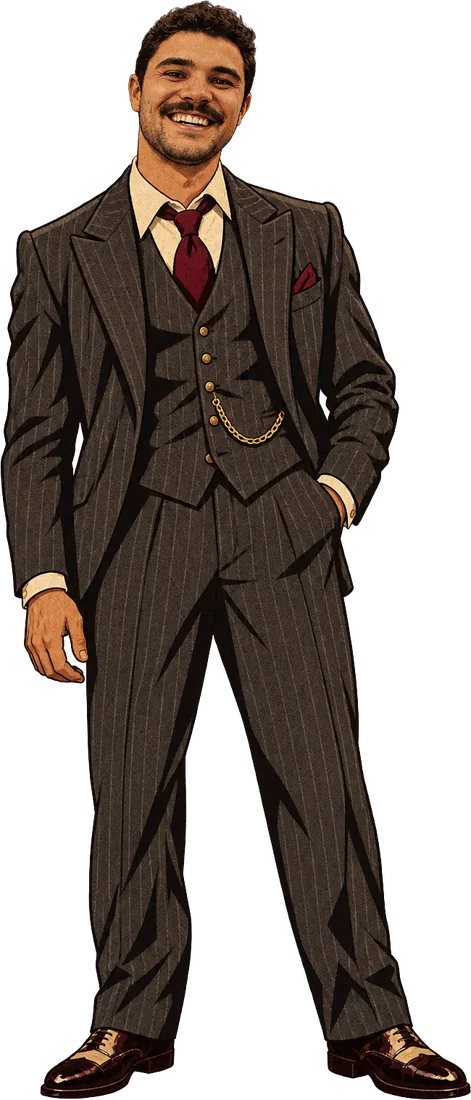
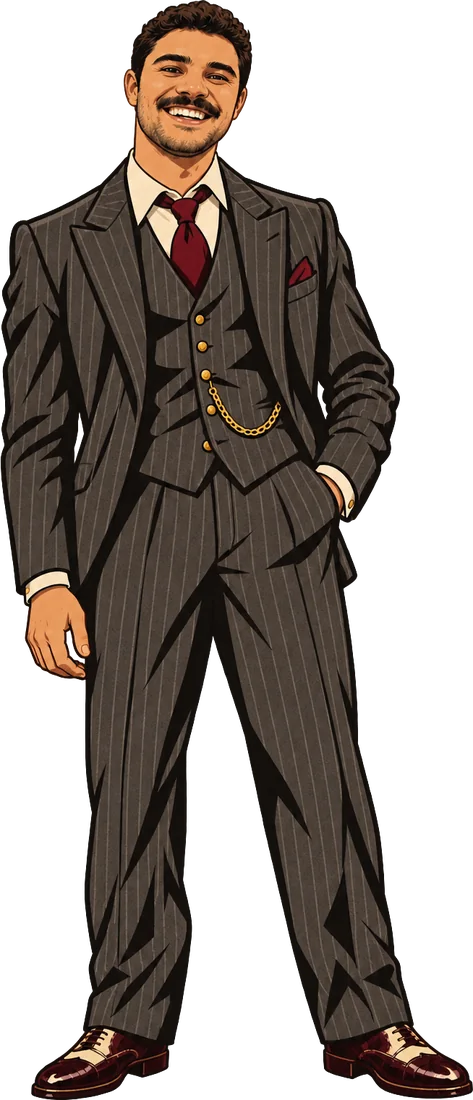
Guests type their own nickname and last name; Daya joins the cast
Sign-up: after tapping their face, each guest gives their last name and,
optionally, their 1920s nickname (Heston: "the players can fill that in when
they register"); they go by "Josh “Two-Tone” Lee" and the roll call says
"Josh Lee, a.k.a. Two-Tone". Holden restyled to match the others; Daya added.

Claude-Session: https://claude.ai/code/session_011n5gPsd4ZZgTYeVzG34PYX

Changed region(s): [[0.0, 0.0, 1.0, 1.0]]

diff --git a/convex/registration.ts b/convex/registration.ts
@@ -35,6 +35,8 @@ const profileArgs = {
   rumor: v.optional(v.string()),
   sayAs: v.optional(v.string()),
   figure: v.optional(v.string()), // the drawing they picked as their avatar
+  nickname: v.optional(v.string()), // party cast: their 1920s nickname ("Two-Tone"), optional
+  lastName: v.optional(v.string()), // party cast: their last name, optional
 };
 
 type ProfileInput = {
@@ -49,12 +51,18 @@ type ProfileInput = {
   rumor?: string;
   sayAs?: string;
   figure?: string;
+  nickname?: string;
+  lastName?: string;
 };
 
-/** A cast member's drawing comes with their name (and how to say it), whatever the page sent. */
+/** A cast member's drawing comes with their first name (and how to say it), whatever the page sent; their
+ *  nickname and last name are their own (Heston, Oct 16). */
 function castProfile<T extends ProfileInput>(input: T, figure: string | undefined): T {
   const m = castMember(figure);
-  return m ? { ...input, charName: castName(m), realName: castRealName(m), sayAs: m.sayAs ?? "" } : input;
+  if (!m) return input;
+  const bare = (x: string) => x.replace(/[“”"]/g, "").trim();
+  const own = { nickname: bare(clean(input.nickname, LIMITS.nickname)), lastName: bare(clean(input.lastName, LIMITS.lastName)) };
+  return { ...input, ...own, charName: castName(m, own), realName: castRealName(m, own), sayAs: m.sayAs ?? "" };
 }
 
 function validateProfile(game: Doc<"games">, input: ProfileInput) {
@@ -67,6 +75,8 @@ function validateProfile(game: Doc<"games">, input: ProfileInput) {
     secret: clean(input.secret, LIMITS.secret),
     rumor: clean(input.rumor, LIMITS.rumor),
     sayAs: clean(input.sayAs, LIMITS.sayAs),
+    nickname: clean(input.nickname, LIMITS.nickname),
+    lastName: clean(input.lastName, LIMITS.lastName),
     // When the game menu turns the opt-in off, everyone is eligible.
     killerOk: game.killerOptIn ? input.killerOk : true,
   };
@@ -213,6 +223,8 @@ export const register = mutation({
       secret: p.secret || undefined,
       rumor: p.rumor || undefined,
       sayAs: p.sayAs || undefined,
+      nickname: p.nickname || undefined,
+      lastName: p.lastName || undefined,
       figure,
       killerOk: p.killerOk,
       checkedIn: false,
@@ -264,6 +276,8 @@ export const me = query({
       secret: player.secret ?? "",
       rumor: player.rumor ?? "",
       sayAs: player.sayAs ?? "",
+      nickname: player.nickname ?? "",
+      lastName: player.lastName ?? "",
       figure: player.figure ?? null,
       killerOk: player.killerOk,
       // The pool key ("" for a guest who typed their own weapon before the pool, so they pick again).
@@ -287,7 +301,11 @@ export const update = mutation({
       throw new ConvexError("Registration is closed, so changes are locked.");
     }
 
-    const p = validateProfile(game, castProfile(args, args.figure ?? player.figure));
+    // Older pages don't send the nickname or last name: keep what's there.
+    const p = validateProfile(
+      game,
+      castProfile({ ...args, nickname: args.nickname ?? player.nickname, lastName: args.lastName ?? player.lastName }, args.figure ?? player.figure),
+    );
     // A different drawing has to be free; the same one stays theirs. Checked before the name (see register).
     const figure = args.figure && args.figure !== player.figure ? await checkFigure(ctx, game, args.figure, player._id) : undefined;
     await assertNameFree(ctx, game._id, p.charName, player._id);
@@ -319,6 +337,8 @@ export const update = mutation({
       // Older pages don't send these: leave what's there.
       ...(args.rumor !== undefined ? { rumor: p.rumor || undefined } : {}),
       ...(args.sayAs !== undefined || !!castMember(args.figure ?? player.figure) ? { sayAs: p.sayAs || undefined } : {}),
+      nickname: p.nickname || undefined,
+      lastName: p.lastName || undefined,
       ...(figure ? { figure } : {}),
       killerOk: p.killerOk,
       updatedAt: Date.now(),

diff --git a/src/components/ProfileForm.tsx b/src/components/ProfileForm.tsx
@@ -31,6 +31,9 @@ export type ProfileValues = {
   sayAs: string;
   /** The drawing they picked as their avatar. */
   figure: string;
+  /** Party cast: their 1920s nickname and last name, typed here. */
+  nickname: string;
+  lastName: string;
 };
 
 export const EMPTY_PROFILE: ProfileValues = {
@@ -45,6 +48,8 @@ export const EMPTY_PROFILE: ProfileValues = {
   rumor: "",
   sayAs: "",
   figure: "",
+  nickname: "",
+  lastName: "",
 };
 
 const MAX: Record<keyof Omit<ProfileValues, "killerOk" | "figure" | "weapon">, number> = {
@@ -56,6 +61,8 @@ const MAX: Record<keyof Omit<ProfileValues, "killerOk" | "figure" | "weapon">, n
   secret: 280,
   rumor: 140,
   sayAs: 80,
+  nickname: 24,
+  lastName: 30,
 };
 
 type StepId = "door" | "you" | "character" | "motive" | "weapon" | "review";
@@ -96,9 +103,12 @@ export default function ProfileForm(props: {
   const allFigures = gallery?.flatMap((g) => g.figures) ?? [];
   const castPick = allFigures.find((f) => f.key === values.figure) ?? null;
   function pickFigure(f: { key: string; name: string; castName: string }) {
-    setValues((v) => ({ ...v, figure: f.key, charName: f.castName, realName: f.name, sayAs: "" }));
+    setValues((v) => ({ ...v, figure: f.key, realName: f.name, sayAs: "" }));
     setNeedFigure(false);
   }
+  // "Josh “Two-Tone” Lee": their first name from the cast, the rest as they type it (the server makes it final).
+  const tidy = (s: string) => s.replace(/[“”"]/g, "").replace(/\s+/g, " ").trim();
+  const fullName = castPick ? [castPick.name, tidy(values.nickname) ? `“${tidy(values.nickname)}”` : "", tidy(values.lastName)].filter(Boolean).join(" ") : "";
   const topRef = useRef<HTMLDivElement>(null);
 
   const generateUploadUrl = useMutation(api.registration.generateUploadUrl);
@@ -119,6 +129,8 @@ export default function ProfileForm(props: {
 
   const requiredFor = (s: StepId): TextKey[] => {
     switch (s) {
+      case "you":
+        return castPick ? ["lastName"] : [];
       case "character":
         return ["who", "signature"];
       case "motive":
@@ -305,13 +317,23 @@ export default function ProfileForm(props: {
               <div className="figure-chosen">
                 <img src={figureUrl(castPick.key)} alt="" />
                 <span className="help">
-                  <strong className="figure-chosen-name">{castPick.castName}</strong>
+                  <strong className="figure-chosen-name">{fullName}</strong>
                   That's you. Not you? Tap your own face.
                 </span>
               </div>
             )}
             {needFigure && <span className="err">Tap your face to continue.</span>}
           </div>
+          {castPick && (
+            <>
+              {field("lastName", "Your last name", { ph: "e.g. Hill" })}
+              {field("nickname", "Your 1920s nickname · optional", {
+                ph: "e.g. Two-Tone, The Knife, Lucky",
+                help: "The narrator calls you by it at the roll call: “Josh Lee, a.k.a. Two-Tone.”",
+                publicHelp: true,
+              })}
+            </>
+          )}
           {nav("Next: your character")}
         </>
       );
@@ -320,7 +342,7 @@ export default function ProfileForm(props: {
       body = (
         <>
           {progress}
-          <h2>{castPick ? `You're ${castPick.castName}` : "Who are you tonight?"}</h2>
+          <h2>{castPick ? `You're ${fullName}` : "Who are you tonight?"}</h2>
           <p className="lede">A little about your 1929 self. Random and funny is welcome.</p>
           {field("who", "Who you are tonight, in a line or two", {
             area: true,

diff --git a/convex/figures.ts b/convex/figures.ts
@@ -26,13 +26,22 @@ export const CAST: CastMember[] = [
   { key: "brian", name: "Brian", sex: "m" },
   { key: "brianna", name: "Brianna", sex: "f" },
   { key: "sienna", name: "Sienna", sex: "f" },
+  { key: "daya", name: "Daya", sex: "f" },
 ];
 export const CAST_KEYS = CAST.map((l) => l.key);
 export const castMember = (key: string | null | undefined) => (key ? CAST.find((l) => l.key === key) ?? null : null);
-/** What a cast member goes by: first name, “nickname”, last name ("Josh “Two-Tone” Lee"), with whatever's in so far. */
-export const castName = (m: CastMember) => [m.name, m.nickname ? `“${m.nickname}”` : "", m.last ?? ""].filter(Boolean).join(" ");
+/** The nickname and last name each guest types at sign-up (Heston, Oct 16: "the players can fill that in when they
+ *  register"); the cast list itself leaves them empty. */
+export type Own = { nickname?: string | null; lastName?: string | null };
+const tidy = (s: string | null | undefined) => (s ?? "").replace(/[“”"]/g, "").replace(/\s+/g, " ").trim();
+/** What a cast member goes by: first name, “nickname”, last name ("Josh “Two-Tone” Lee"), with whatever's in. */
+export const castName = (m: CastMember, own: Own = {}) => {
+  const nick = tidy(own.nickname ?? m.nickname);
+  return [m.name, nick ? `“${nick}”` : "", tidy(own.lastName ?? m.last)].filter(Boolean).join(" ");
+};
 /** Their own name without the nickname ("Josh Lee"), for "a.k.a." lines. */
-export const castRealName = (m: CastMember) => [m.name, m.last ?? ""].filter(Boolean).join(" ");
+export const castRealName = (m: CastMember, own: Own = {}) => [m.name, tidy(own.lastName ?? m.last)].filter(Boolean).join(" ");
+export const castNickname = (m: CastMember, own: Own = {}) => tidy(own.nickname ?? m.nickname);
 
 /** Every drawing a game can hand out (for preloading art). */
 export const ALL_FIGURE_KEYS = CAST_KEYS;

diff --git a/src/lib/figure.ts b/src/lib/figure.ts
@@ -9,5 +9,5 @@ export const avatarSrc = (photoUrl?: string | null, figure?: string | null) => p
  * Where each drawing's face sits across its width (0 to 1), for lining the face up with the gap in the
  * jail bars (public/art/jailbars.webp). Measured from the art: the middle of the head in the top 15%.
  */
-export const FACE_X: Record<string, number> = {"bodyguard": 0.455, "brayden": 0.294, "brian": 0.386, "brianna": 0.445, "holden": 0.408, "sienna": 0.323, "chrissie": 0.448, "cigarette": 0.322, "curls": 0.442, "dapper": 0.5, "detective": 0.446, "don": 0.445, "emily": 0.387, "flapper": 0.608, "gambler": 0.403, "heiress": 0.453, "heston": 0.441, "josh": 0.415, "killer": 0.43, "lady": 0.45, "madison": 0.471, "miranda": 0.474, "owner": 0.508, "reily": 0.4, "reporter": 0.364, "sam": 0.422, "singer": 0.326, "sleuth": 0.272, "slick": 0.494, "sophia": 0.46, "sweetheart": 0.406, "trumpet": 0.495};
+export const FACE_X: Record<string, number> = {"bodyguard": 0.455, "brayden": 0.294, "brian": 0.386, "brianna": 0.445, "holden": 0.393, "sienna": 0.323, "chrissie": 0.448, "cigarette": 0.322, "curls": 0.442, "daya": 0.336, "dapper": 0.5, "detective": 0.446, "don": 0.445, "emily": 0.387, "flapper": 0.608, "gambler": 0.403, "heiress": 0.453, "heston": 0.441, "josh": 0.415, "killer": 0.43, "lady": 0.45, "madison": 0.471, "miranda": 0.474, "owner": 0.508, "reily": 0.4, "reporter": 0.364, "sam": 0.422, "singer": 0.326, "sleuth": 0.272, "slick": 0.494, "sophia": 0.46, "sweetheart": 0.406, "trumpet": 0.495};
 export const faceX = (key: string) => FACE_X[key] ?? 0.45;

diff --git a/tests/figures.test.ts b/tests/figures.test.ts
@@ -84,6 +84,21 @@ describe("the party cast: the only characters (Heston, Oct 16: the generic ones 
     expect((await t.query(api.registration.me, { token }))!.charName).toBe(castName(CAST.find((l) => l.key === "sam")!));
   });
 
+  test("each guest types their own nickname and last name; the roll call uses them", async () => {
+    const { t, hostKey } = await setup();
+    const { token } = await t.mutation(api.registration.register, { ...guest(0, "josh"), nickname: " “Two-Tone” ", lastName: "Lee" });
+    let me = (await t.query(api.registration.me, { token }))!;
+    expect(me).toMatchObject({ charName: "Josh “Two-Tone” Lee", realName: "Josh Lee", nickname: "Two-Tone", lastName: "Lee" });
+    // an older page that doesn't send them keeps what's there
+    const { slug: _s, ...edit } = guest(0, "josh");
+    await t.mutation(api.registration.update, { ...edit, token, who: "Changed." });
+    me = (await t.query(api.registration.me, { token }))!;
+    expect(me.charName).toBe("Josh “Two-Tone” Lee");
+    await expect(t.mutation(api.registration.update, { ...edit, token, nickname: "x".repeat(25) })).rejects.toThrow(/24/);
+    const sheet = await t.query(api.voice.rollCallSheet, { slug: SLUG, hostKey });
+    expect(sheet.guests[0].line).toContain("Josh Lee, a.k.a. Two-Tone");
+  });
+
   test("the gallery greys out taken faces, but not your own when you edit; switching frees the old one", async () => {
     const { t } = await setup();
     const { token } = await t.mutation(api.registration.register, guest(0, "heston"));

diff --git a/convex/rollCall.ts b/convex/rollCall.ts
@@ -4,7 +4,7 @@
 import type { Doc, Id } from "./_generated/dataModel";
 import type { QueryCtx } from "./_generated/server";
 import type { CaseFile } from "./engine/types";
-import { castMember, castRealName } from "./figures";
+import { castMember, castNickname, castRealName } from "./figures";
 import { narratorOf, rollWanted, type Wanted } from "./voiceLines";
 import { readSecs, rollSlotMs } from "./show";
 
@@ -33,13 +33,14 @@ export async function rollGuests(ctx: QueryCtx, game: Doc<"games">, _cf: CaseFil
     const w = weapons.find((x) => x.playerId === p._id);
     const weapon = w?.key ? { key: w.key, name: w.name } : null;
     const m = castMember(p.figure);
-    const cast = m ? { real: castRealName(m), nickname: m.nickname ?? null } : null;
+    const own = { nickname: p.nickname, lastName: p.lastName };
+    const cast = m ? { real: castRealName(m, own), nickname: castNickname(m, own) || null } : null;
     const wanted = rollWanted(tone, narratorOf(game), {
       id: p._id,
       charName: p.charName,
       sayAs: p.sayAs,
       realName: p.realName,
-      cast: m ? { real: castRealName(m), nickname: m.nickname, sayAs: m.sayAs } : null,
+      cast: m ? { real: castRealName(m, own), nickname: castNickname(m, own), sayAs: m.sayAs } : null,
       seed: game.slug,
     });
     return { player: p, weapon, cast, wanted };

diff --git a/convex/schema.ts b/convex/schema.ts
@@ -142,6 +142,8 @@ export default defineSchema({
     figure: v.optional(v.string()), // the drawing they picked as their avatar (convex/figures.ts); one per guest per game
     rumor: v.optional(v.string()), // roll call: the word on the street about their character
     sayAs: v.optional(v.string()), // how the narrator should say the character's name
+    nickname: v.optional(v.string()), // party cast: their 1920s nickname, typed at sign-up ("Two-Tone")
+    lastName: v.optional(v.string()), // party cast: their last name, typed at sign-up
     rollLine: v.optional(v.string()), // the host's edit of the roll-call line
     // v2 jail: voted in after a round, voted out at a release vote. Jailed guests can talk and bribe, nothing else.
     jailed: v.optional(v.boolean()),

diff --git a/src/pages/Guest.tsx b/src/pages/Guest.tsx
@@ -51,6 +51,8 @@ export default function Guest({ token }: { token: string }) {
             killerOk: me.killerOk,
             rumor: me.rumor,
             sayAs: me.sayAs,
+            nickname: me.nickname,
+            lastName: me.lastName,
             figure: me.figure ?? "",
           }}
           initialPhotoUrl={me.photoUrl}

diff --git a/convex/lib.ts b/convex/lib.ts
@@ -13,6 +13,8 @@ export const LIMITS = {
   weaponDesc: 280,
   rumor: 140,
   sayAs: 80,
+  nickname: 24,
+  lastName: 30,
 } as const;
 
 export const DEFAULT_ROOMS = [
